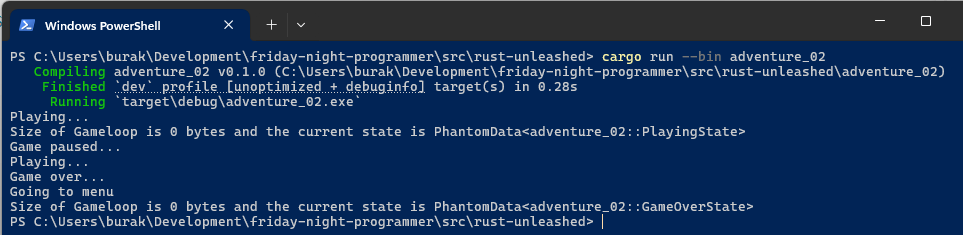
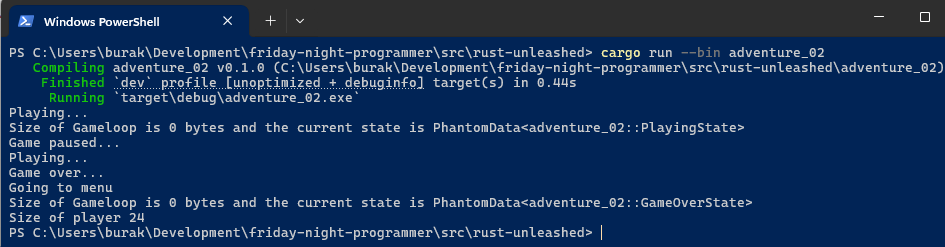
Add rust_adventure_05 image and update README with ZST and assignment expression examples

Changed region(s): [[0.0, 0.0, 1.0, 0.983], [0.9513, 0.0596, 0.982, 0.1191], [0.3069, 0.0894, 0.3376, 0.1191]]

diff --git a/src/rust-unleashed/README.md b/src/rust-unleashed/README.md
@@ -223,11 +223,13 @@ warning: `adventure_01` (bin "adventure_01") generated 1 warning
 
 Uyarı mesajı **const** bir öğeye mutable referans alındığını belirtmekte. Nitekim her **const** kullanımı yeni bir geçici alan oluşturulması demek. Örnek kodda bu yeni alan referans olsa dahi **value** isimli yepyeni bir değişkene bağlanıyor *(binding)*. Bir başka ifadeyle **const** tanımlanan bir öğe bellekte tek bir yerde durmuyor ve her kullanıldığında yeni bir kopyası oluşturuluyor. Dolayısıyla biz değiştirilebilir referans ile bu yeni kopyaya erişiyoruz. Farklı bir kopya üzerinden çalışmamızda bir sakınca yok zira aynı verinin sahipliğini taşımıyorlar. Dolayısıyla **value** üzerinden **name** ve **id** gibi alanları değiştirmemizde bir problem yok ve bu değişiklikler orjinal constant değerini de etkilemiyor. Diğer yandan kodun devam eden kısmında doğrudan **BACKGROUND_COLOR** constant değişkeni üzerinde işlemler yapıyoruz. Sırasıyla name ve id alanlarının içeriğini değiştiriyoruz. Lakin her bir atama işlemi yeni bir constant kopyasının oluşturulması ve satır sonlandığı anda *(yani ; ile ifade tamamlandığında)* da derhal **drop** edilmesi demek. Bu nedenle constant değişkeni üzerinden name ve id alanlarına müdahale etsek dahi asıl constant içeriği sabit kalmaya devam ediyor. Birden fazla constant kopyası oluşmasının ispatı da program sonunda çalıştırılan drop çağrıları ile anlaşılabiliyor.
 
-## Zero Sized Types (adventure_02)
+## Zero Sized Types ve Assignment Expression ile Unit Type İlişkisi (adventure_02)
 
-Rust'ın yetenekli bir dil olduğunu biliyoruz. Bu nedenle birçok iyi dilden esinlenip adapte ettiği türlü özellikleri var. Söz gelimi fonksiyonel dil paradigmasında Option ve Result türlerini alması ya da Haskell'den Type Class kavramını alıp Trait enstrümanını kullanması gibi. Bu ve başka özellikler dilini gücünü de artırıyor. Çok fazla söz edilmeyen bir başka güçlü kavram ise Zero Sized Types. Hatta şu anki kod macerasını kavrayabilmek için öncelikle sıfır boyutlu bir veri türü söz konusu olabilir mi, olursa hangi senaryolarda işe yarar bakmam gerekti.
+**Rust**'ın yetenekli bir dil olduğunu hepimiz biliyoruz. Detayda inanılmaz ayrıntılar içeriyor. Bunda birçok iyi dilden esinlenip adapte ettiği türlü özelliklerin önemli bir payı var. Söz gelimi fonksiyonel dil paradigmasından **Option** ve **Result** türlerini alması ya da **Haskell**'den **Type Class** kavramını alıp **Trait** enstrümanını şeklinde kullanması gibi. Bu ve başka özellikler dilin gücünü daha da artırıyor. Çok fazla söz edilmeyen bir başka güçlü kavram ise **Zero Sized Types**. Hatta şu anki kod macerasını kavrayabilmek için öncelikle sıfır boyutlu bir veri türü söz konusu olabilir mi, olursa hangi senaryolarda işe yarar bakmam gerektiğini anladım.
 
-Zero Sized Type *(ZST)* türünden veri yapıları bellekte yer kaplamayan türlerdir. Bir başka deyişle 0 byte uzunluğundadırlar. Örneğin herhangi bir alan içermeyen bir struct, unit türü *(() ile ifade edilir)* ve bazı **enum türleri *(örneğin Empty gibi)*** ZST olarak kabul edilir. İhtiyaca göre kendi ZST veri yapılarımızı da tanımlayabiliriz. Bu konuda daha çok **State Machine** senaryoları gösteriliyor. Böyle ifade edince de aklıma gelen ilk senaryo bir oyundaki ana döngünün yönetilmesi. Hatta bu tip bir senaryoda **PhantomData** kullanımı da söz konusu. PhantomData ile işaret edilen veri türleri derleme zamanında varken çalışma zamanında yoktur dersem de kafaların iyice karışacağını tahmin ediyorum. Ancak gerçekten de böyle bir durum söz konusu. Bazen ilgili veri yapısının sadece kod tarafında kullanıldığı ama çalışma zamanında ele alınması gerekmeyen bir durum söz konusu olabilir. Bu açıdan bakınca oyun döngüsü ne kadar iyi bir örnek tartışmaya açık. Konuya açıklık getirmek için aşağıdaki kod parçasını ele alalım.
+Zero Sized Type *(ZST)* türünden veri yapıları bellekte yer kaplamayan türler olarak ifade edilebilir. Bir başka ifadeyle bu türler bellekte sıfır byte yer kaplarlar. Nasıl yani; derlemeli bir dil kullanıyoruz, bellek yönetimi konusunda takıntılı, garbage collector olmadan bellek kaçaklarını önlediği sert kurallara sahip ve kodda tanımladığımız bir değişken için çalışma zamanında bellek tahsisi yapılmadan ilerlenbiliyor. Doğru mu anladım?  
+
+Sanırım bu soruya Evet şeklinde cevap verebiliriz. Örneğin herhangi bir alan içermeyen bir **struct**, **unit** türü *(() ile ifade edilir)* ve bazı **enum türleri *(örneğin Empty gibi)*** ZST olarak kabul edilir. Hatta unit dönen bir ifadenin de sıfır boyutlu olduğunu söylesek yeridir. İhtiyaca göre kendi **ZST** veri yapılarımızı da tanımlayabiliriz. Bu konuda daha çok **State Machine** senaryoları örnek olarak gösteriliyor. Böyle ifade edince de aklıma gelen ilk senaryo bir oyundaki ana döngünün yönetilmesi oldu. Hatta bu senaryoda **PhantomData** kullanarak state'leri sıfır maliyetle yönetmek de mümkün diyebilirim. **PhantomData** ile işaret edilen veri türleri derleme zamanında varken çalışma zamanında yoktur dersem de kafaların iyice karışacağını tahmin ediyorum. Ancak gerçekten de böyle bir durum söz konusu. Bazen ilgili veri yapısının sadece kod tarafında kullanıldığı ama çalışma zamanında ele alınması gerekmeyen senaryolar söz konusu olabilir. Bu açıdan bakınca oyun döngüsü ne kadar iyi bir örnek tartışmaya açık. Gelin tüm bunları harmanlayıp örnek bir kod üzerinden ilerleyelim. İlk olarak şu **state machine** senaryosuna bir bakalım.
 
 ```rust
 #![allow(dead_code)]
@@ -312,13 +314,36 @@ fn main() {
 }
 ```
 
-Kod biraz karışık görünebilir. Şöyle bir üstünden geçelim; Oyun döngüsü için dört farklı durum söz konusu. Menüde olma hali, oynan oynandığı durum, oynarken pause etme veya yanıp oyunun sonlandığı an. Tabii gerçek bir oyun için bu state'ler yeterli değil ancak amacımız burada **Zero Sized Types** kavramını anlamak. **GameLoop** isimli veri yapısındaki **state** alanını **generic PhantomData** türünden tanımladık. Dolayısıyla bu alanda kullanacağımız **MenuState**, **PlayingState**, **PausedState** ve **GameOverState** değişkenleri sadece derleme aşamasında değerlendirilen ama çalışma zamanında yer tahsisi yapılmayan bir özellik kazanacaklar.
+Kod biraz karışık görünebilir. Şöyle bir üstünden geçelim; Oyun döngüsü için dört farklı durum söz konusu. Menüde olma hali, oyunun oynandığı durum, oynarken pause etme veya hedefi ıskalayıp yanınca oyunun sonlandığı an. Tabi ki gerçek bir oyun geliştirme ortamı için bu state'ler yeterli değil ancak amacımız burada **Zero Sized Types** kavramını anlamak. **GameLoop** isimli veri yapısındaki **state** alanını **generic PhantomData** türünden tanımladık. Dolayısıyla bu alanda kullanacağımız **MenuState**, **PlayingState**, **PausedState** ve **GameOverState** değişkenleri sadece derleme aşamasında değerlendirilen ama çalışma zamanında yer tahsisi yapılmayan bir özellik kazandı.
 
-State türlerini ifade eden her bir **struct** için bir **GameLoop** implementasyonu söz konusu. Bu implementasyonlarda state'ler arası geçişleri sağlayan metotlar yer alıyor. Örneğin menüdeyken oyunu başlatıp **PlayingState**'e geçebiliriz veya **PlayingState** halinde iken **pause** metodu ile **PausedState**'e geçebiliriz. Geçişleri kolaylaştırmak veya başa dönmek içinse generic **GameLoop**'un kendisinde tanımlanmış **change**, **reset** gibi metotlardan yararlanabiliriz.
+State türlerini ifade eden her bir **struct** için bir **GameLoop** implementasyonu söz konusu. Bu implementasyonlarda state'ler arası geçişleri sağlayan metotlar yer alıyor. Örneğin menüdeyken oyunu başlatıp **PlayingState**'e geçebiliriz veya **PlayingState** halinde iken **pause** metodu ile **PausedState**'e geçebiliriz. Geçişleri kolaylaştırmak veya başa dönmek içinse generic **GameLoop**'un kendisinde tanımlanmış **change** ve **reset** gibi metotlardan yararlanıyoruz.
 
-Main metodunda örnek kullanımlar söz konusu. İşin enteresan kısmı kullandığımız GameLoop veri yapısının bu haliyle bellekte ne kadar yer kaplayacağız. Çalışma zamanı çıktısı aşağıdaki gibidir. Görüldüğü üzere veri yapısının boyutu 0 bytes şeklindedir.
+Main metodunda örnek kullanımlar söz konusu. İşin enteresan kısmı kullandığımız **GameLoop** veri yapısının bu haliyle bellekte ne kadar yer kaplayacağı. Çalışma zamanı çıktısı aşağıdaki ekran görüntüsündeki gibidir. Fark ettiğiniz üzere veri yapısının boyutu **0 bytes**. Hatta bundan biraz daha emin olmak için **Player** isimli, gerçekleşen olayla hiçbir ilgisi bulunmayan bir veri yapısı da kullandık *(Bellekte ne kadar yer ayrıldığını görmek için **mem** modülünden **size_of_val** fonksiyonunu kullandık)*
 
 ![rust_adventure_04.png](../../images/rust_adventure_04.png)
+
+Sıfır boyutlu verileri biraz olsun anladık diye düşünüyorum. Eğer rust ile geliştirmekte olduğunuz projede PhantomData ve ZST kullanımına geçeceğiniz vakalar buluyorsanız dilde epey uzmanlaşmışsınızdır diyebilirim ama tabii ilerleyen maceralar aksini de söyleyebiliri. Neyse neyse... Benzer varlıklardan birisi de ki **()** ile ifade ediliyor **unit** türü. Şimdi bunu da cebimize koyalım ve aşağıdaki kod parçasını göz önüne alalım.
+
+```rust
+use std::mem;
+
+fn main() {
+    let value_x;
+    let value_y = value_x = 23;
+    println!("Value X :{}", value_x);
+    println!(
+        "Value Y : {:?} Size of the value {}",
+        value_y,
+        mem::size_of_val(&value_y)
+    );
+}
+```
+
+Öncelikle kodun çalışma zamanı çıktısına bir bakalım.
+
+![rust_adventure_05.png](rust_adventure_05.png)
+
+Dikkat edileceği üzere **value_y**' nin değeri standart bir placeholder ile değil **{:?}** ile alınabilmektedir zira bu türden atama ifadelerinin *(assignment expression)* dönüşü birim (unit) tiptir. Unit tipler de sıfır boyutlu veri türlerindendir. Dolayısıyla **value_y** değişkenine belirtilen ifadeye göre **()** atanmış ve boyutu otomatik olarak sıfır olmuştur. Böylece **assignment expression** kavramını ne kadar iyi bildiğimizi de sorgulama fırsatı bulmuş olduk. Kafasından duman çıkmayan beri gelsin :D
 
 ## Kaynaklar
 
